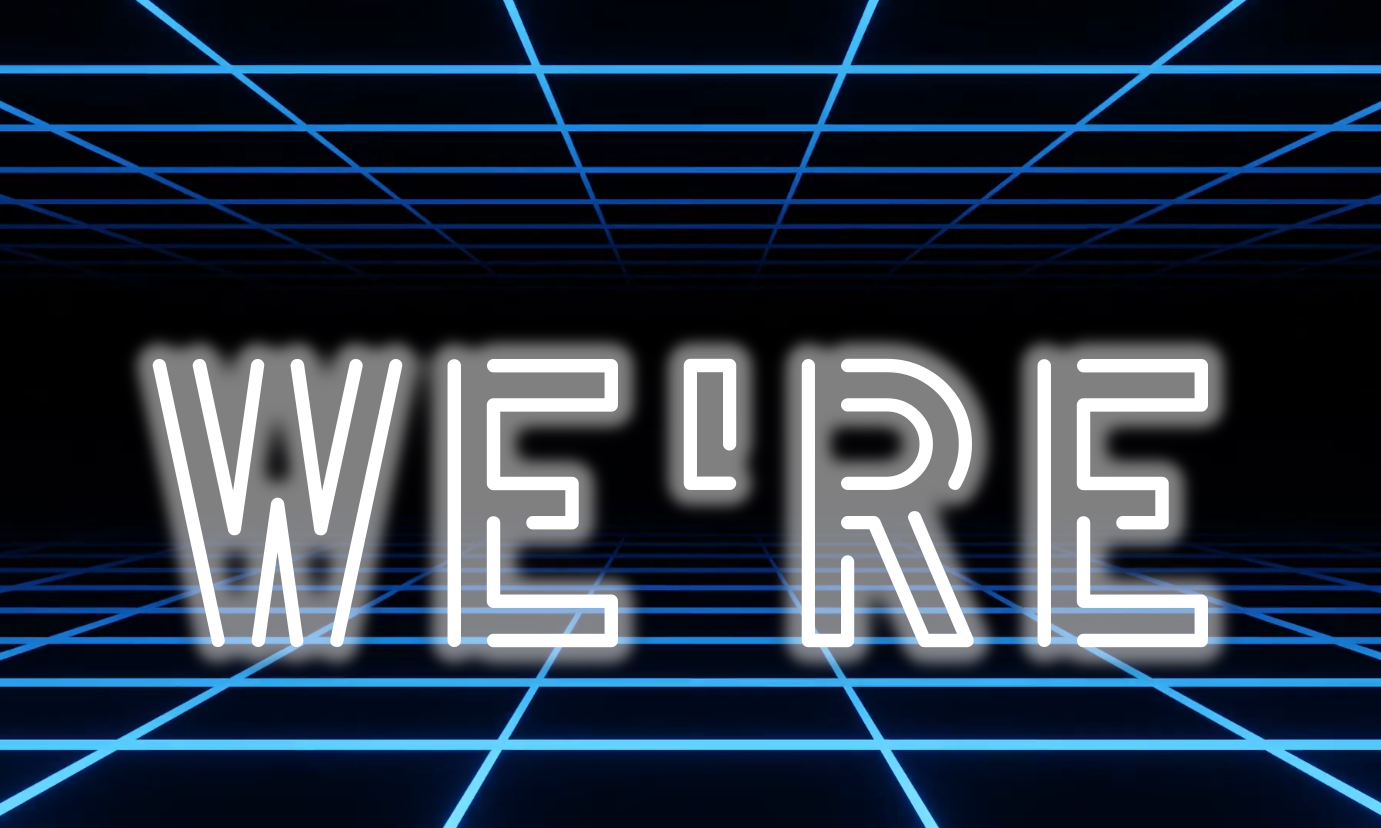
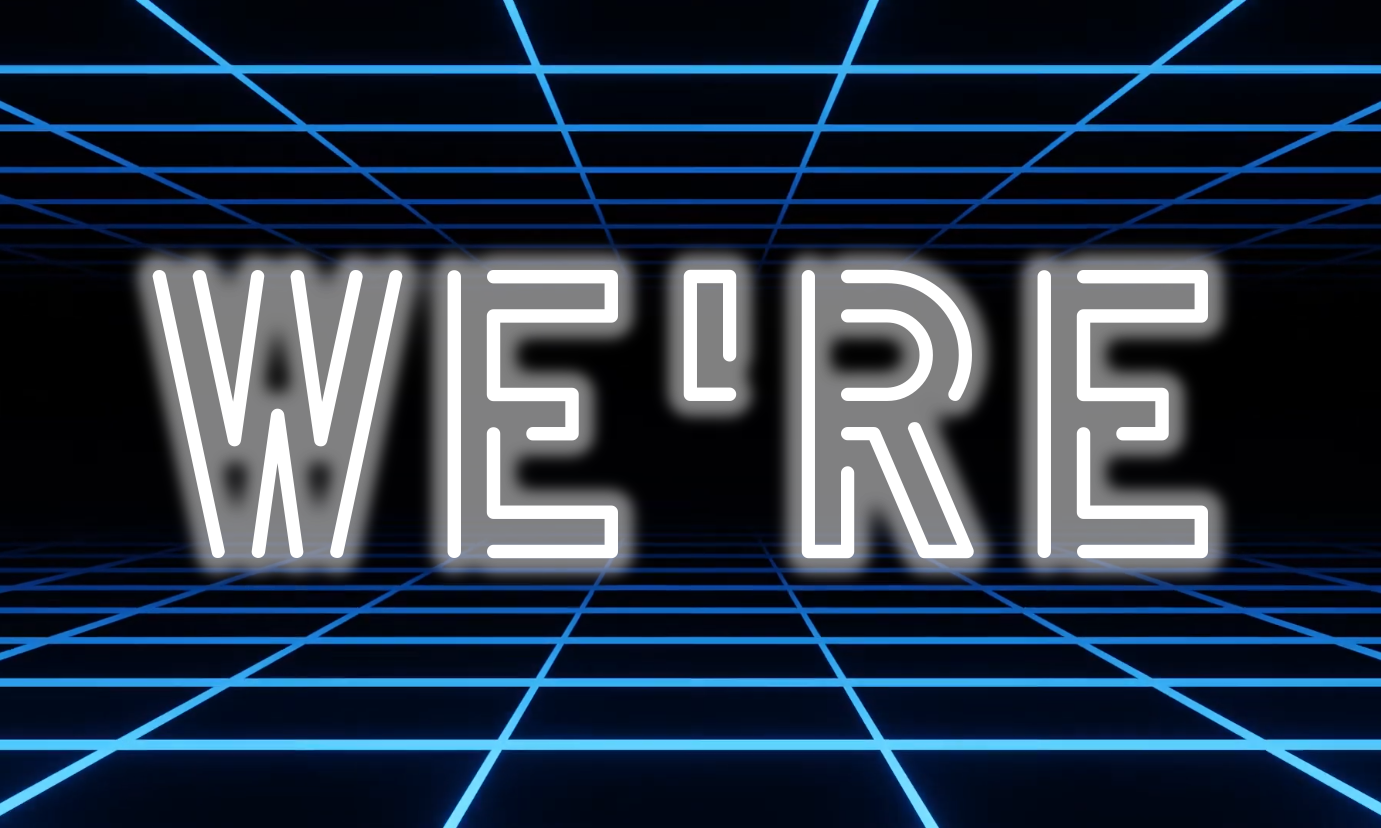
Refactor image text positioning for accurate centering and update multiple image assets

Changed region(s): [[0.0934, 0.3019, 0.903, 0.8152]]

diff --git a/bin/genera.py b/bin/genera.py
@@ -135,11 +135,15 @@ def genera_imagenes_con_texto(terminal):
 
         # creamos la imagen final
         canvas = bg.copy().convert("RGBA")
-        # posición centrada
-        x = (W - w) // 2
-        y = (H - h) // 2
         # calcula ancho de contorno para efecto neon
         stroke_width = 20
+        # recalcula bounding box con contorno para centrar correctamente
+        measurer = ImageDraw.Draw(canvas)
+        bbox = measurer.textbbox((0, 0), word, font=font, stroke_width=stroke_width)
+        w = bbox[2] - bbox[0]
+        h = bbox[3] - bbox[1]
+        x = (W - w) // 2 - bbox[0]
+        y = (H - h) // 2 - bbox[1]
         # capa de glow: dibuja texto con contorno y aplica blur
         glow_layer = Image.new("RGBA", (W, H), (0, 0, 0, 0))
         draw_glow = ImageDraw.Draw(glow_layer)
